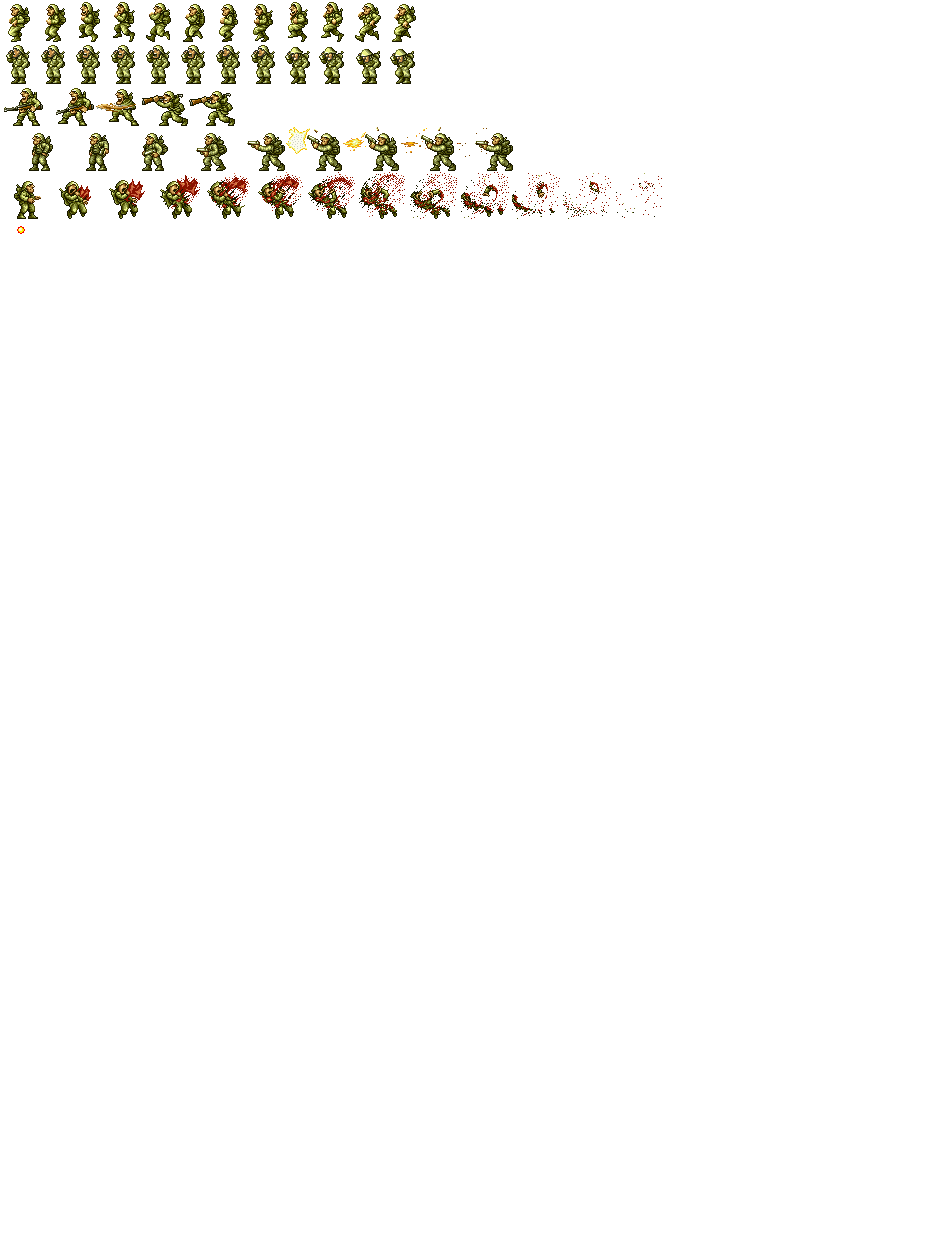
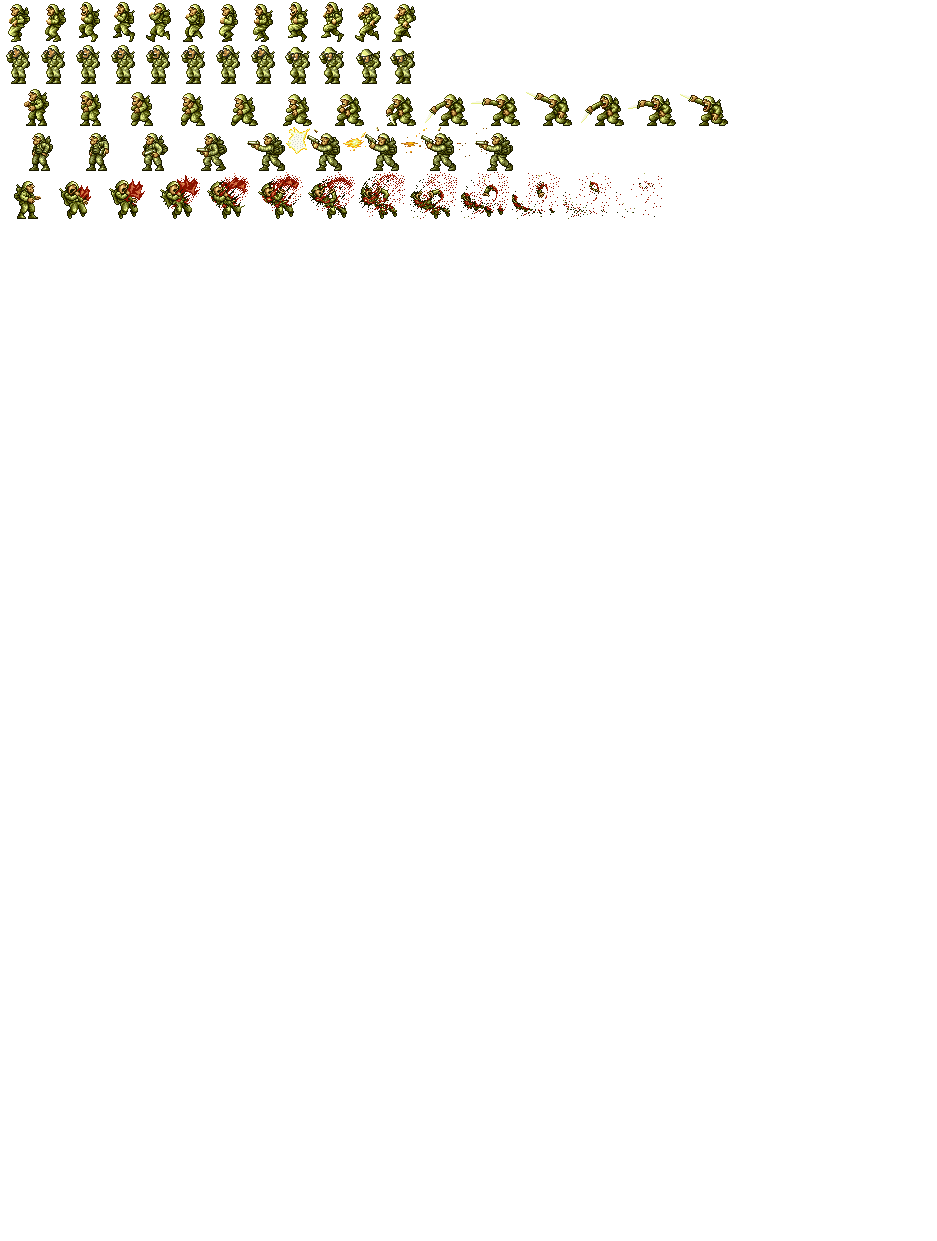
Melee Action

diff --git a/Practica Final - Metal Slug/src/Enemies.js b/Practica Final - Metal Slug/src/Enemies.js
@@ -326,29 +326,29 @@ function add_enemies(Q){
 			trigger: "die"
 		},
 		before_melee_left: {
-			frames: [0,1,2],
-			rate: 1 / 10,
+			frames: [0,1,2,3,4,5,6,7,8],
+			rate: 1 / 15,
 			flip: false,
 			loop: false,
 			trigger: "meleeAttack"
 		},
 		after_melee_left: {
-			frames: [3,4,3,4],
-			rate: 1 / 10,
+			frames: [11,12,13,10,9,8,7,6,5,4,3,2,1,0],
+			rate: 1 / 15,
 			flip: false,
 			loop: false,
 			trigger: "reset"
 		},
 		before_melee_right: {
-			frames: [0,1,2],
-			rate: 1 / 10,
+			frames: [0,1,2,3,4,5,6,7,8],
+			rate: 1 / 15,
 			flip: "x",
 			loop: false,
 			trigger: "meleeAttack"
 		},
 		after_melee_right: {
-			frames: [3,4,3,4],
-			rate: 1 / 10,
+			frames: [11,12,13,10,9,8,7,6,5,4,3,2,1,0],
+			rate: 1 / 15,
 			flip: "x",
 			loop: false,
 			trigger: "reset"

diff --git a/Practica Final - Metal Slug/src/game.js b/Practica Final - Metal Slug/src/game.js
@@ -130,8 +130,8 @@ var game = function() {
 			/*let prisoner = new Q.Prisoner({x: 650, y: 0});
 			stage.insert(prisoner);*/
 
-			let s1 = new Q.ShieldSoldier({x: 350, y: 0});
-			stage.insert(s1);
+			// let s1 = new Q.RifleSoldier({x: 350, y: 0});
+			// stage.insert(s1);
 
 			/*let s2 = new Q.RifleSoldier({x: 100, y: 0});
 			stage.insert(s2);
